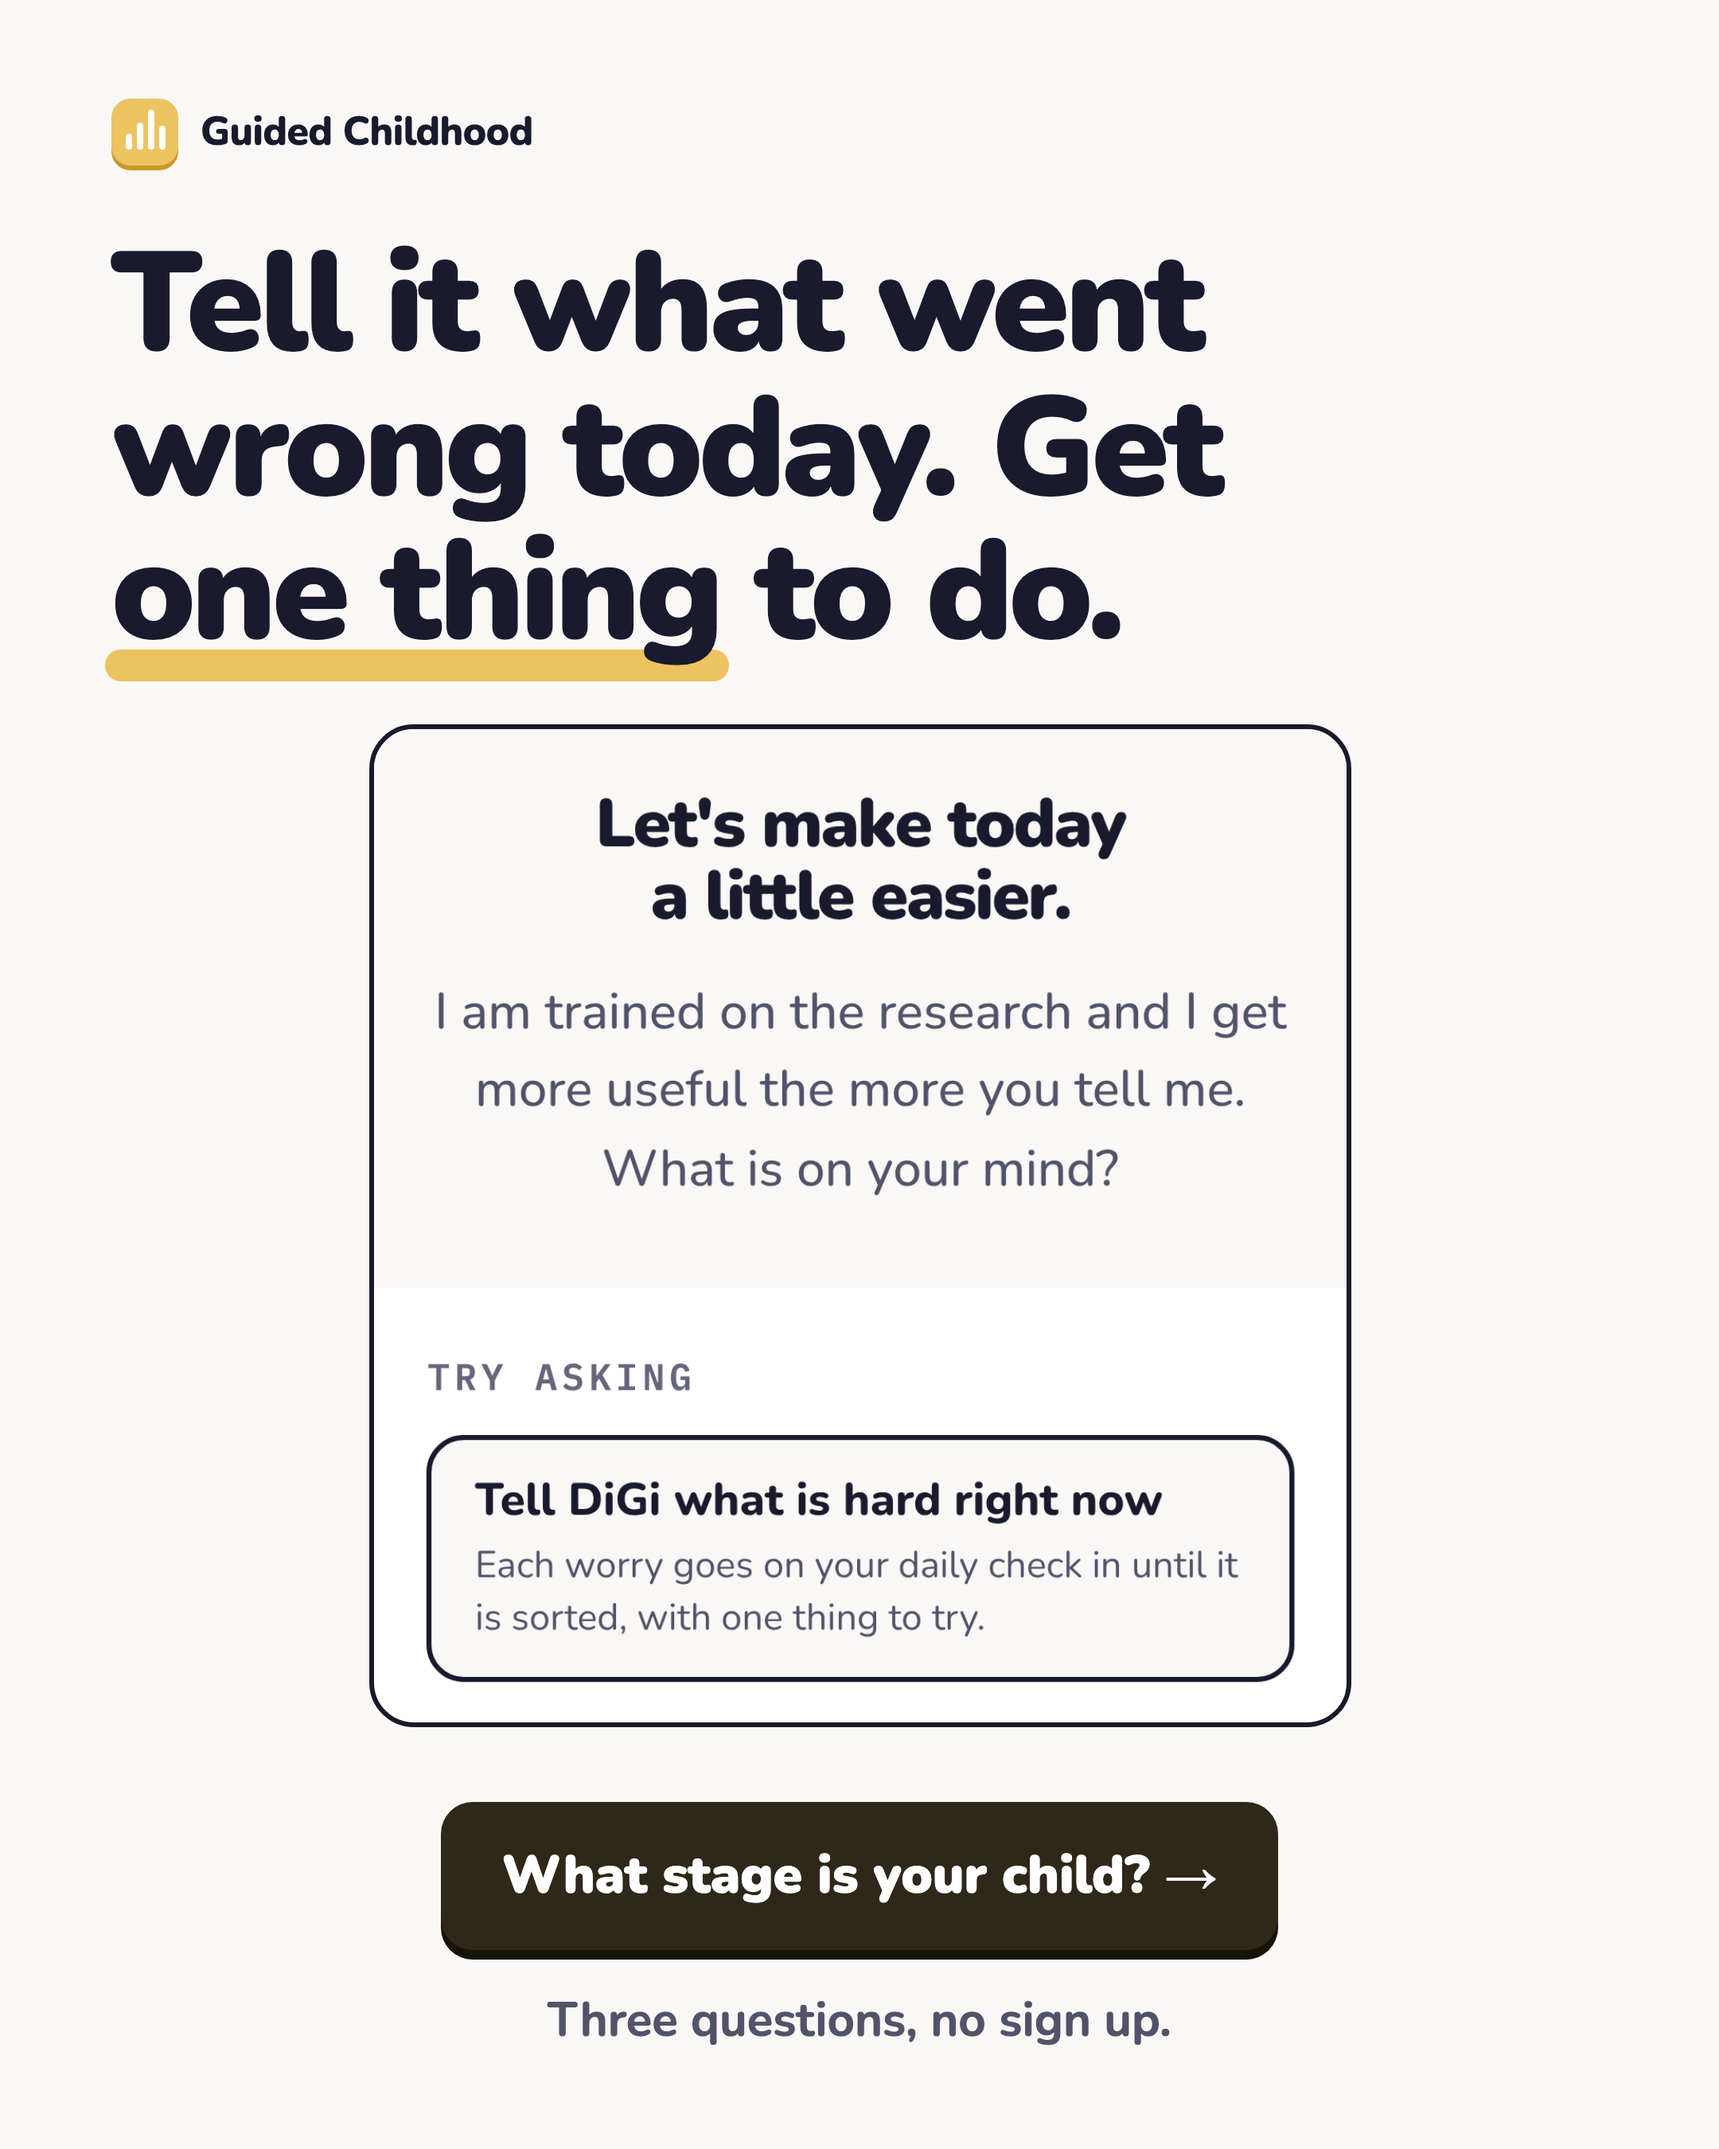
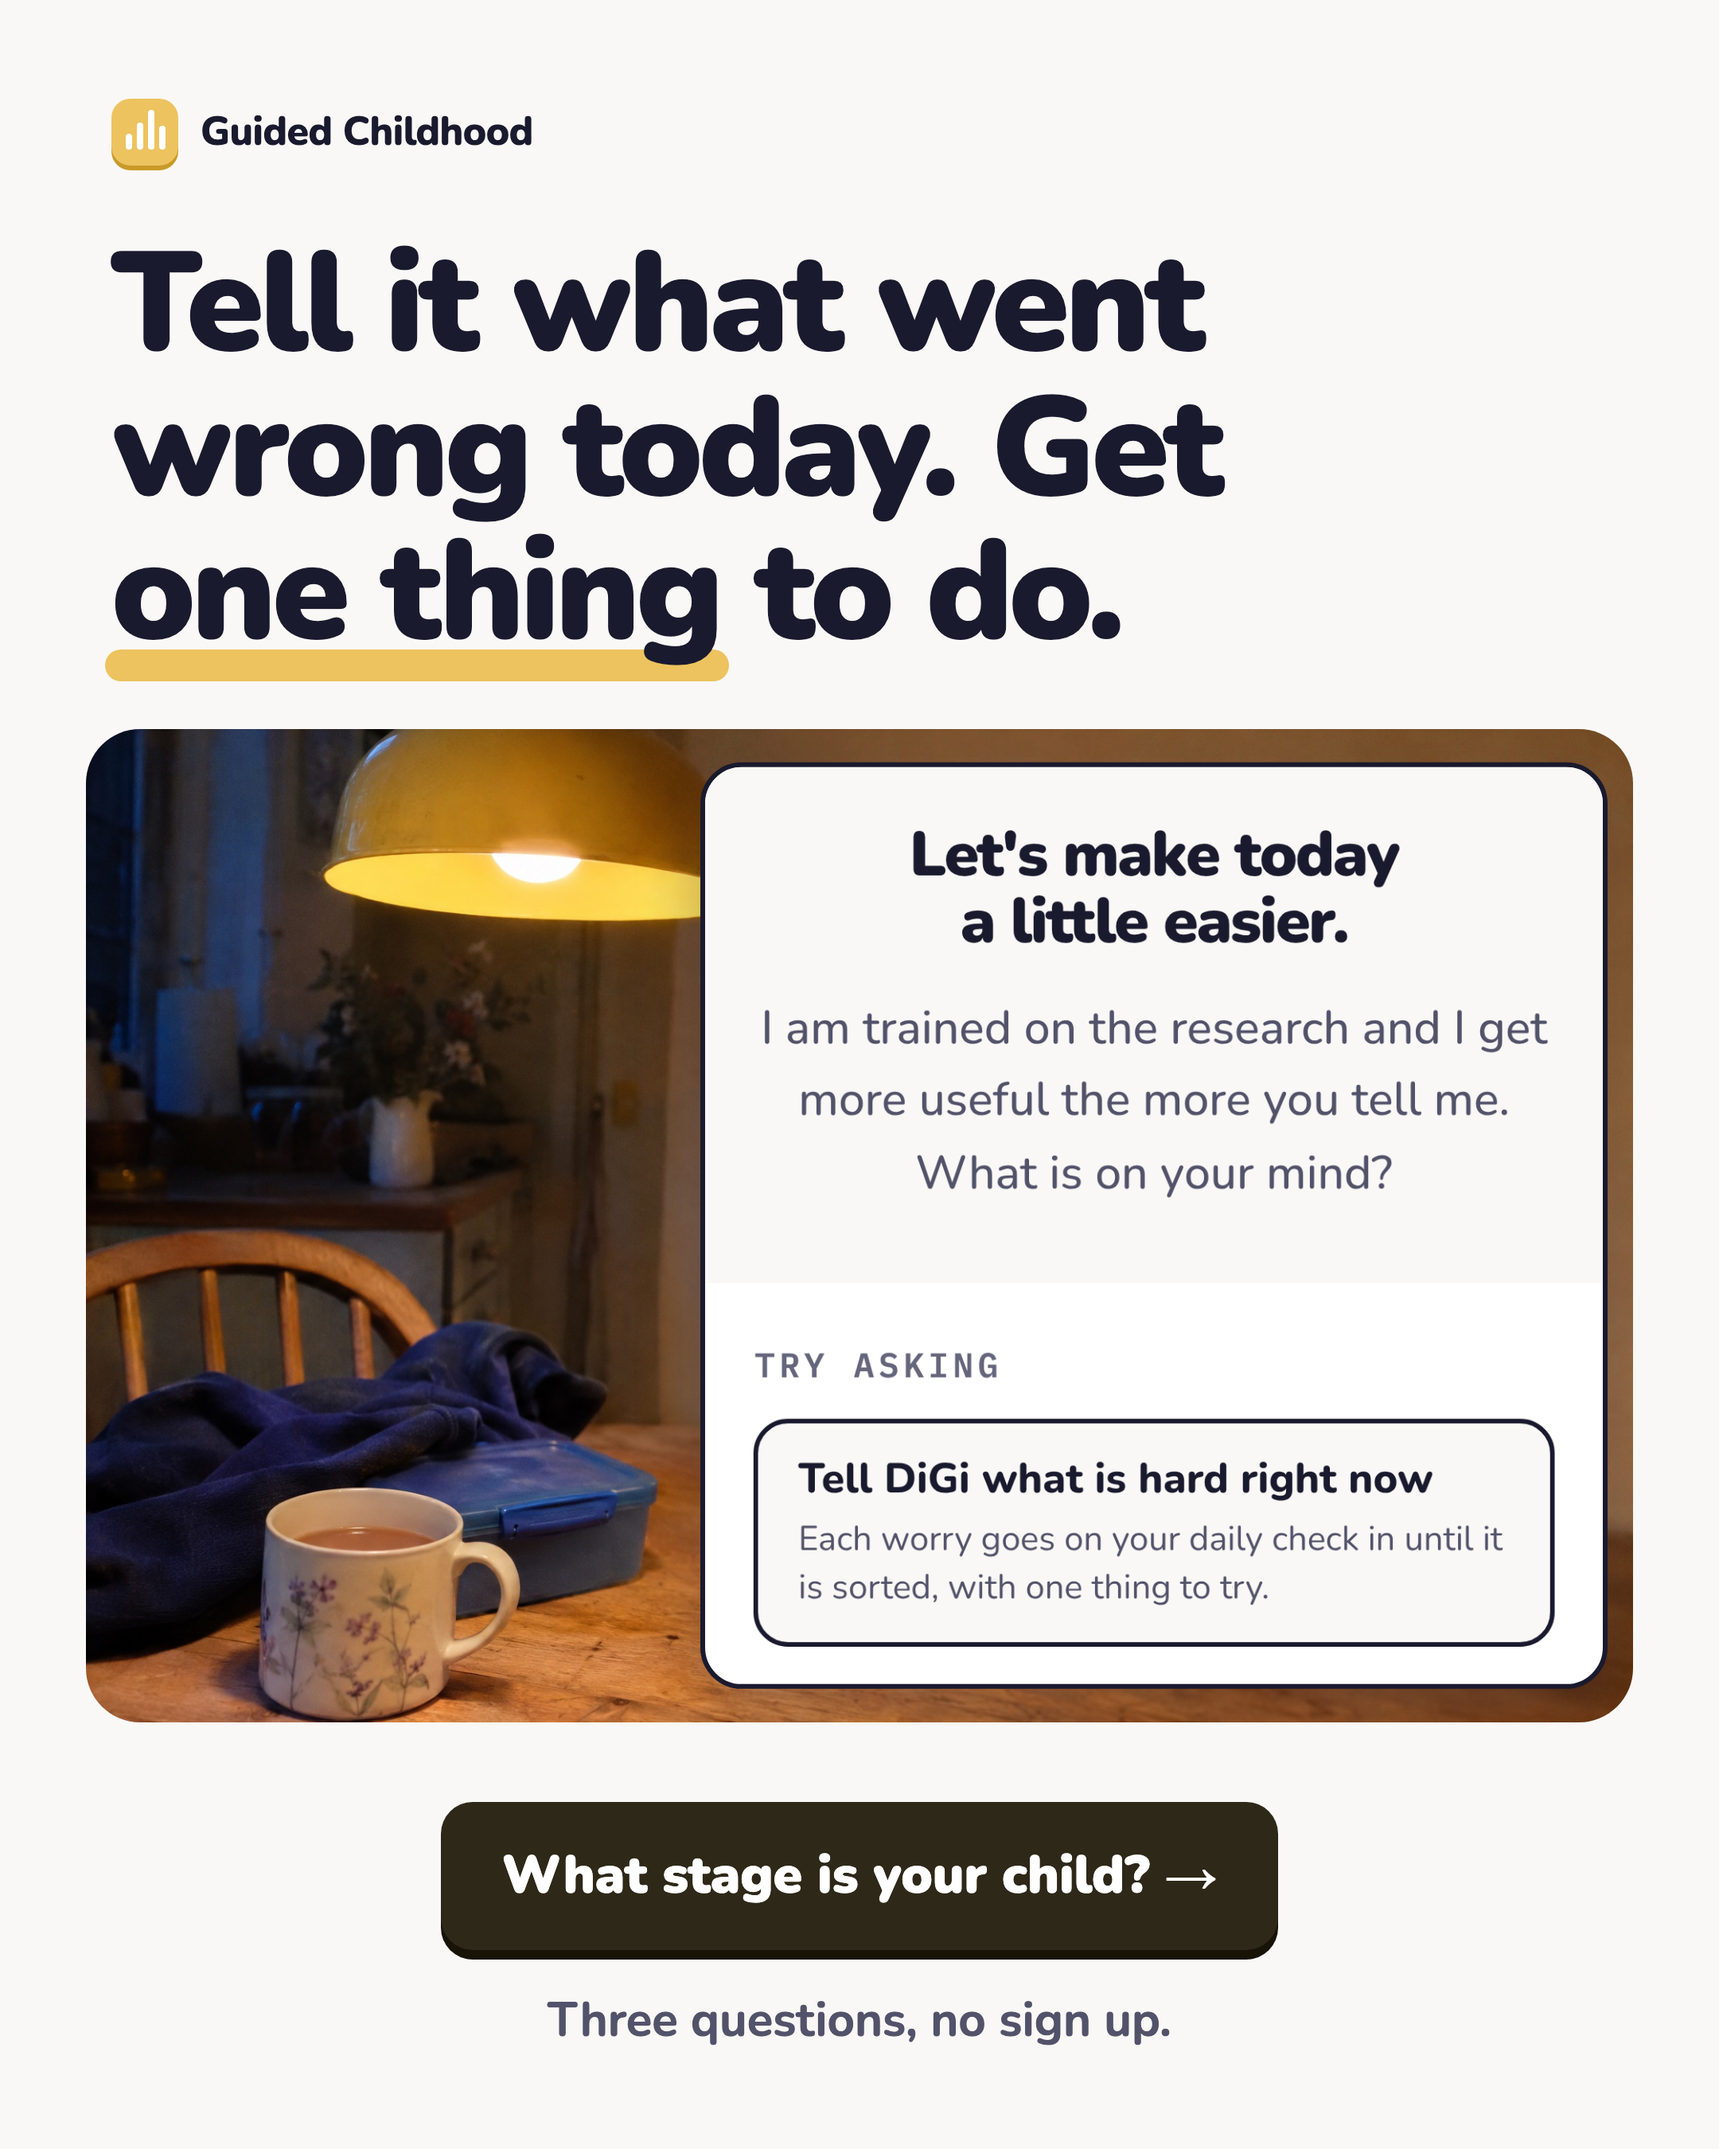
Round 1: a picture of the moment behind each real screen
Five generated scenes (rooms and objects, nobody in them) under visual system
section 15, the real captures untouched on top. Plain cards kept in plain/.

Changed region(s): [[0.031, 0.3111, 0.9616, 0.8089]]

diff --git a/tools/social-cards/ad-template.html b/tools/social-cards/ad-template.html
@@ -203,7 +203,7 @@ function stackedHTML(c){
     <div class="top">${MARK}<div class="word">Guided Childhood</div></div>
     <div class="head" style="height:${top - 120 - 40}px"><h1>${c.headline}</h1></div>
     ${c.scene
-      ? `<div class="slot scene" style="top:${top}px;height:${H - top - bottom}px;background-image:url('${ROOT + c.scene.image}')">${flatHTML({ ...c.screen, inset: 34, left: ((c.scene.x ?? 0.72) * 100) + '%' })}</div>`
+      ? `<div class="slot scene" style="top:${top}px;height:${H - top - bottom}px;background-image:url('${ROOT + c.scene.image}')">${flatHTML({ ...c.screen, inset: 24, left: ((c.scene.x ?? 0.72) * 100) + '%' })}</div>`
       : `<div class="slot" style="top:${top}px;height:${H - top - bottom}px">${flatHTML(c.screen)}</div>`}
     <div class="cta"><div class="pill">${c.pill}</div><div class="small">${c.small}</div></div>
   </div>`;

diff --git a/content/packs/2026-11-11-round-1/README.md b/content/packs/2026-11-11-round-1/README.md
@@ -88,20 +88,33 @@ checks begun and signups from the first click. The founder links page
    breaks the money rule (never pay to find out if something works), so it is
    Justin's call.
 
-## Added later the same day: a picture behind the screen
+## A picture of the moment behind each screen
 
 Justin asked whether these match the finish of the adverts in the talk and of
 the competitors' best. Compared against both
 (`briefings/notes/competitor-sightings.md`, 11 November): the structure
-matches, the picture was missing. `scene-proof/` holds the mid match card
-again with a photograph of the moment behind the real script, in two
-versions. The photographs are generated (GPT Image, 5.5 credits for the two,
-agreed by Justin first): a sofa, a lamp and a controller, nobody in them. The
-script on top is the same real capture.
+matched, the picture was missing. He said yes to a picture on all five.
 
-These two are a proof of the look, not part of the round. They have no link
-codes and are not to be posted. If Justin picks the look, all five cards get a
-scene and the round is rendered again before anything goes out.
+Each card now has a photograph of its moment behind the real screen. The
+photographs are generated with GPT Image under visual system section 15: a
+room and objects, nobody in them, no text, our palette. The screen on top of
+each is the same real capture as before, untouched.
+
+| Card | The picture | File |
+| :-- | :-- | :-- |
+| Control | A mug of tea, a lunch box and a school jumper on the kitchen table | `content/ads/scenes/control-kitchen-table.jpg` |
+| Mid match | A controller left on the arm of the sofa | `content/ads/scenes/mid-match-sofa.jpg` |
+| Left out | A school bag and shoes dropped in the hallway | `content/ads/scenes/left-out-hallway.jpg` |
+| Before the box | A plain sealed box on brown paper | `content/ads/scenes/before-the-box-table.jpg` |
+| Jobs first | The dog's bowl and lead by the back door (the job on screen is Feed the dog) | `content/ads/scenes/jobs-first-dog-bowl.jpg` |
+
+Cost: ten images, 27.5 credits, agreed by Justin before each batch. One was
+picked per card; the rest stay on Higgsfield.
+
+Checked again after the change: the gate passes, butter is 1.4 to 3.7 percent
+against the cap of 10, and the scores stand, with line 1 now carried by the
+picture as well as the headline. The cards without pictures are kept in
+`plain/` in case the plain version is wanted.
 
 Open for Justin: card 5's hook. Kairoo began running "Jobs first. Then screen
 time." on 6 November.

diff --git a/plans/decisions.md b/plans/decisions.md
@@ -389,3 +389,7 @@ Justin asked for step 2 with the creating and the uploading set up, at a top fin
 ## 11 November 2026: the ads measured against the talk's and the competitors', and a picture added
 
 Justin asked whether Round 1 matches the finish of the adverts in the talk and of the competitors' proven ads, using the same products. Watched the talk's adverts frame by frame and read the Meta Ad Library live (`briefings/notes/competitor-sightings.md`). Found: the only proven set is Qustodio's plain videos in real homes (240 days and more); Kairoo launched a generated, illustrated campaign 5 to 11 days ago, including "Jobs first. Then screen time.", which is our card 5; the talk's adverts share our card's structure and add a picture. So a stacked card may now carry `scene`, a generated photograph of a room or objects behind the real screen, under visual system section 15 with nothing loosened. Proof made for mid match: 5.5 credits, agreed first. Seedance costed at 128 credits for eight seconds, not run. Open with Justin: scenes on all five, and card 5's hook.
+
+## 11 November 2026: all five Round 1 cards carry a picture
+
+Justin said yes to a picture behind the screen on all five cards. Each has a generated photograph of its moment (a room and objects, nobody in it, visual system section 15) with the real screen untouched on top. Ten images, 27.5 credits in all, agreed first. Gate passes, butter under 4 percent. The plain cards are kept in `content/packs/2026-11-11-round-1/plain/`. Card 5's hook is still open with Justin.

diff --git a/.claude/skills/ad-studio/SKILL.md b/.claude/skills/ad-studio/SKILL.md
@@ -135,7 +135,9 @@ Make them with the tools we already have:
   10 percent.
 - **A picture of the moment, behind the real screen:** a stacked card may
   carry `scene`, a generated photograph that fills the slot with the real
-  screen sitting on it (`2026-11-11-scene-proof.json` is the model). The
+  screen sitting on it (`2026-11-11-round-1.json` is the model). Ask for
+  the subject in the left third and the rest soft and empty, so the screen
+  has somewhere to sit. The
   competitors' longest running ads all lead with a picture; this is how ours
   does without inventing anything. The rules are visual system section 15,
   all of them: a room or objects only, never a person, a child's face, a
